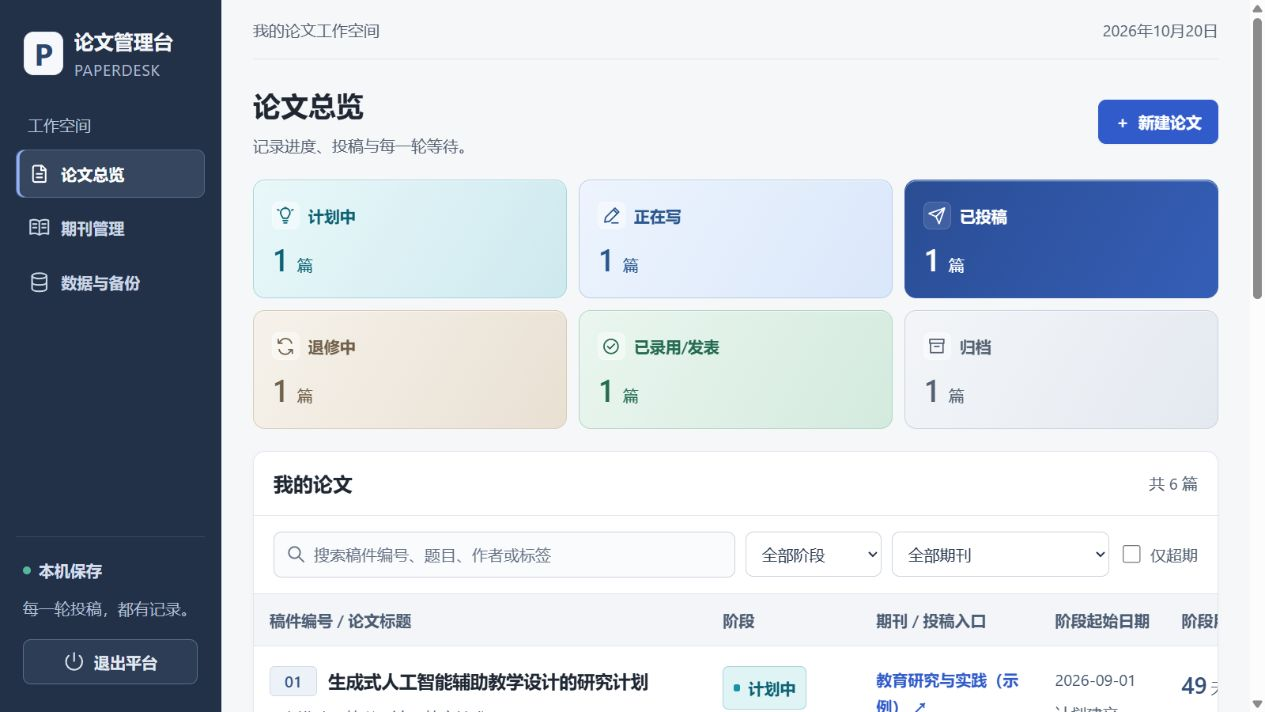
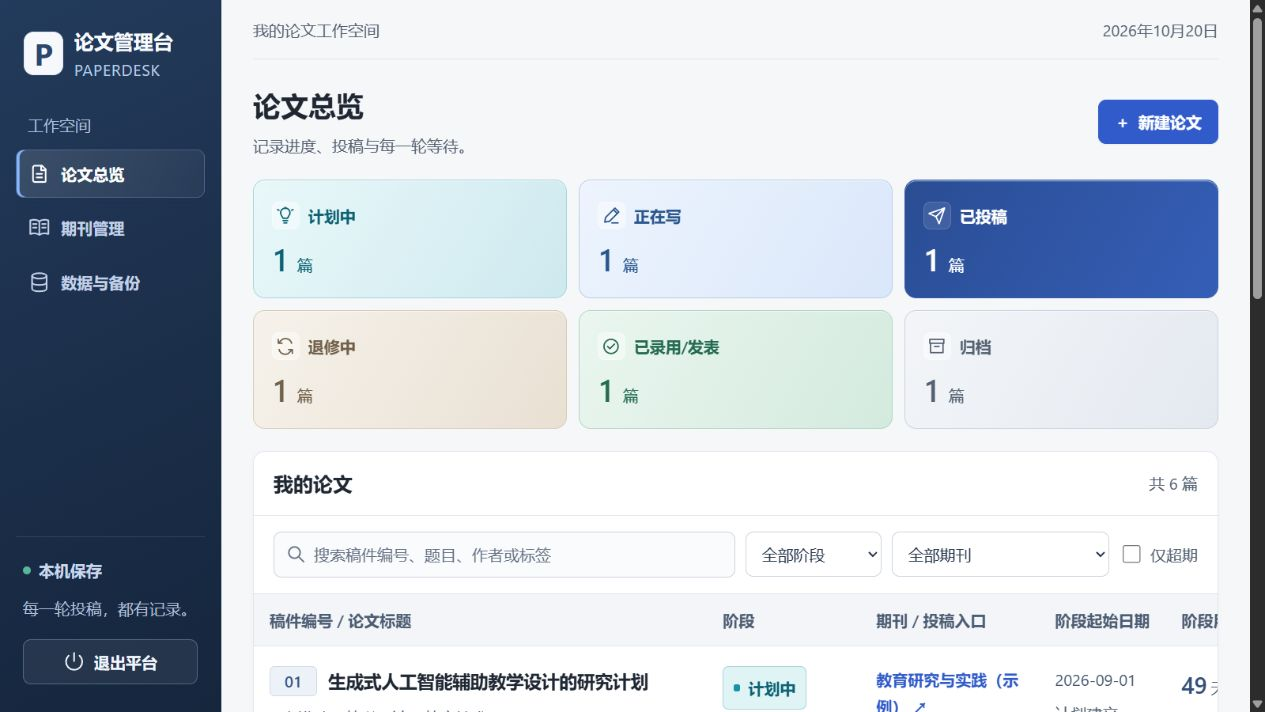
fix: restore navy sidebar palette

Changed region(s): [[0.9866, 0.0, 1.0, 1.0], [0.0617, 0.0927, 0.1233, 0.1236]]

diff --git a/web/style.css b/web/style.css
@@ -3,7 +3,7 @@
 *{box-sizing:border-box}html{font-size:16px}body{margin:0;background:var(--canvas);color:var(--ink);font-family:"Segoe UI","Microsoft YaHei UI","Microsoft YaHei","PingFang SC",sans-serif;font-size:16px;line-height:1.65;-webkit-font-smoothing:antialiased}button,input,select,textarea{font:inherit}button{cursor:pointer}button:disabled{cursor:wait;opacity:.55}a{color:var(--blue);text-decoration:none}a:hover{text-decoration:underline}button{line-height:1.45}[hidden]{display:none!important}p{overflow-wrap:anywhere}small{font-size:16px}h1,h2,h3{line-height:1.4;letter-spacing:0}button:focus-visible,a:focus-visible,input:focus-visible,select:focus-visible,textarea:focus-visible,summary:focus-visible{outline:3px solid #7196ea;outline-offset:3px}
 .icon,.nav-icon,.quit-icon{display:inline-block;width:22px;height:22px;flex:none;vertical-align:middle}.skip-link{position:fixed;top:-70px;left:20px;padding:10px 16px;z-index:60;background:#fff;border:2px solid var(--blue);border-radius:8px}.skip-link:focus{top:12px}
 /* Application frame */
-.sidebar{position:fixed;inset:0 auto 0 0;width:224px;background:#223148;border-right:1px solid #1c2a3e;padding:28px 16px;display:flex;flex-direction:column;z-index:3}.brand{display:flex;align-items:center;gap:11px;padding:0 8px;color:#f4f6fa;font-size:20px;font-weight:650;line-height:1.35}.brand:hover{text-decoration:none}.brand-icon{display:grid;place-items:center;width:40px;height:44px;border:1px solid #e1e7f4;border-radius:10px;background:#f6f8fc;color:#2c466c;font-family:inherit;font-size:30px;font-weight:700;flex:none}.brand small{display:block;font-size:16px;font-weight:400;letter-spacing:.6px;margin-top:4px;color:#aebbd0}.nav-label{margin:32px 12px 12px;color:#b7c5d8;font-size:16px}.nav-item{white-space:nowrap;width:100%;display:flex;align-items:center;gap:11px;min-height:48px;margin-bottom:6px;padding:12px;border:1px solid transparent;border-radius:8px;background:transparent;color:#cbd6e6;text-align:left;font-size:16px;font-weight:550;transition:background .15s}.nav-item:hover{background:#2b3c54;color:#fff}.nav-item.active{background:#35465e;border-color:#536783;color:#fff;box-shadow:inset 3px 0 #91b0fa}.sidebar-bottom{margin-top:auto;padding:20px 7px 0;border-top:1px solid #ffffff1c}.local-status{display:flex;align-items:center;gap:8px;font-size:16px;font-weight:550;color:#d5dfed}.status-dot,.integrity-dot{width:8px;height:8px;border-radius:50%;background:#56b79d;flex:none}.sidebar-bottom p{font-size:16px;color:#b1bfd2;margin:12px 0 18px}.quit-button{display:flex;justify-content:center;align-items:center;gap:9px;min-height:46px;width:100%;padding:10px 13px;color:#e2e8f2;border:1px solid #5a6d89;border-radius:8px;background:#2d3d55;font-size:16px;font-weight:550}.quit-button:hover{background:#35465e;border-color:#92a3bf}.workspace{margin-left:224px;padding:0 32px;min-width:0}.topbar{min-height:60px;border-bottom:1px solid var(--line);display:flex;align-items:center;justify-content:space-between;gap:14px;color:var(--muted);font-size:16px}.date-label{white-space:nowrap;font-variant-numeric:tabular-nums}.page-header{display:flex;justify-content:space-between;align-items:center;gap:20px;margin:26px 0 22px}.page-header h1{font-size:28px;font-weight:650;margin:0}.page-header p{font-size:16px;color:var(--muted);margin:8px 0 0}.eyebrow,.section-kicker{font-size:16px;color:var(--muted);font-weight:450;margin-bottom:6px}
+.sidebar{position:fixed;inset:0 auto 0 0;width:224px;background:linear-gradient(155deg,#233b5c 0%,#1b2e49 55%,#15263d 100%);border-right:1px solid #192c46;padding:28px 16px;display:flex;flex-direction:column;z-index:3}.brand{display:flex;align-items:center;gap:11px;padding:0 8px;color:#f8fbff;font-size:20px;font-weight:650;line-height:1.35}.brand:hover{text-decoration:none}.brand-icon{display:grid;place-items:center;width:40px;height:44px;border:1px solid #e1e7f4;border-radius:10px;background:#f6f8fc;color:#2c466c;font-family:inherit;font-size:30px;font-weight:700;flex:none}.brand small{display:block;font-size:16px;font-weight:400;letter-spacing:.6px;margin-top:4px;color:#b9cde9}.nav-label{margin:32px 12px 12px;color:#adbfda;font-size:16px}.nav-item{white-space:nowrap;width:100%;display:flex;align-items:center;gap:11px;min-height:48px;margin-bottom:6px;padding:12px;border:1px solid transparent;border-radius:8px;background:transparent;color:#c2d1e7;text-align:left;font-size:16px;font-weight:550;transition:background .15s}.nav-item:hover{background:#ffffff0d;color:#fff}.nav-item.active{background:linear-gradient(110deg,#ffffff1f,#ffffff0c);border-color:#a6c5fa3d;color:#fff;box-shadow:inset 3px 0 #86b5ff,0 4px 12px #10213a14}.sidebar-bottom{margin-top:auto;padding:20px 7px 0;border-top:1px solid #ffffff1c}.local-status{display:flex;align-items:center;gap:8px;font-size:16px;font-weight:550;color:#c8d8ed}.status-dot,.integrity-dot{width:8px;height:8px;border-radius:50%;background:#56b79d;flex:none}.sidebar-bottom p{font-size:16px;color:#aebfd7;margin:12px 0 18px}.quit-button{display:flex;justify-content:center;align-items:center;gap:9px;min-height:46px;width:100%;padding:10px 13px;color:#f0f6ff;border:1px solid #b5cdef52;border-radius:8px;background:#ffffff10;font-size:16px;font-weight:550}.quit-button:hover{background:#ffffff1c;border-color:#bfd8ff99}.workspace{margin-left:224px;padding:0 32px;min-width:0}.topbar{min-height:60px;border-bottom:1px solid var(--line);display:flex;align-items:center;justify-content:space-between;gap:14px;color:var(--muted);font-size:16px}.date-label{white-space:nowrap;font-variant-numeric:tabular-nums}.page-header{display:flex;justify-content:space-between;align-items:center;gap:20px;margin:26px 0 22px}.page-header h1{font-size:28px;font-weight:650;margin:0}.page-header p{font-size:16px;color:var(--muted);margin:8px 0 0}.eyebrow,.section-kicker{font-size:16px;color:var(--muted);font-weight:450;margin-bottom:6px}
 /* Actions */
 .button{min-height:44px;padding:10px 16px;border-radius:8px;display:inline-flex;justify-content:center;align-items:center;gap:8px;font-size:16px;font-weight:550;border:1px solid transparent;white-space:nowrap;text-decoration:none;transition:background .15s,border-color .15s}.button:hover{text-decoration:none}.primary{background:var(--blue);color:#fff;border-color:var(--blue);box-shadow:0 1px 2px #2449ad15}.primary:hover{background:var(--blue-hover);border-color:var(--blue-hover)}.secondary{background:#fff;color:#35465e;border-color:#d3dae4}.secondary:hover{background:#f1f4f9;border-color:#b6c4d8}.danger{color:#a53737;background:#fff;border-color:#d9b0b0}.danger:hover{background:#fff3f3}.button.small{font-size:16px;min-height:42px;padding:8px 12px}.link-button{border:0;background:transparent;padding:4px 0;color:var(--blue);font-size:16px;line-height:1.65;font-weight:550;cursor:pointer}.link-button:hover{text-decoration:underline}.subtle,.muted{color:var(--muted)}
 /* Stages: preserve the original six semantic meanings. */
@@ -31,6 +31,6 @@
 @media(min-width:1500px){.stats{grid-template-columns:repeat(6,minmax(0,1fr))}.stat{padding:16px 14px}.stat-name{gap:7px}.stat-marker{width:26px;height:26px}.workspace{padding-left:36px;padding-right:36px}}
 @media(min-width:1800px){.papers-table td:first-child{min-width:440px}.papers-table th,.papers-table td{padding-left:20px;padding-right:20px}}
 @media(max-width:1240px){.backup-grid{grid-template-columns:1fr}.toolbar .searchbox{flex-basis:100%}.toolbar select{flex:1;max-width:none}.journal-grid{grid-template-columns:1fr}}
-@media(max-width:900px){.sidebar{position:sticky;top:0;width:auto;padding:14px 20px 12px;display:grid;grid-template-columns:1fr auto;gap:12px 18px;border-right:0;border-bottom:1px solid #1c2a3e}.brand{font-size:18px;padding:0}.brand-icon{width:34px;height:38px;font-size:26px}.brand small{display:none}.nav-label{display:none}.sidebar nav{display:flex;grid-column:1/-1;gap:6px;order:3}.nav-item{width:auto;min-height:44px;margin:0;padding:9px 12px;gap:8px}.sidebar-bottom{margin:0;padding:0;border:0;display:flex;gap:14px;align-items:center}.sidebar-bottom p{display:none}.local-status{display:none}.quit-button{width:auto;min-height:44px;padding:8px 12px}.quit-icon{width:19px;height:19px}.workspace{margin-left:0;padding:0 20px}.topbar{min-height:52px}.page-header{margin:22px 0 20px}.stats{gap:12px}.stat{min-height:112px;padding:14px 16px}.stat strong{font-size:30px}.stat-name{gap:8px}.toast{left:50%}.diagnostic-times{width:100%}}
+@media(max-width:900px){.sidebar{position:sticky;top:0;width:auto;padding:14px 20px 12px;display:grid;grid-template-columns:1fr auto;gap:12px 18px;border-right:0;border-bottom:1px solid #192c46}.brand{font-size:18px;padding:0}.brand-icon{width:34px;height:38px;font-size:26px}.brand small{display:none}.nav-label{display:none}.sidebar nav{display:flex;grid-column:1/-1;gap:6px;order:3}.nav-item{width:auto;min-height:44px;margin:0;padding:9px 12px;gap:8px}.sidebar-bottom{margin:0;padding:0;border:0;display:flex;gap:14px;align-items:center}.sidebar-bottom p{display:none}.local-status{display:none}.quit-button{width:auto;min-height:44px;padding:8px 12px}.quit-icon{width:19px;height:19px}.workspace{margin-left:0;padding:0 20px}.topbar{min-height:52px}.page-header{margin:22px 0 20px}.stats{gap:12px}.stat{min-height:112px;padding:14px 16px}.stat strong{font-size:30px}.stat-name{gap:8px}.toast{left:50%}.diagnostic-times{width:100%}}
 @media(max-width:560px){.close-button,.icon-button{width:44px;height:44px}.button.small{min-height:44px}.link-button{min-height:44px;display:inline-flex;align-items:center}.sidebar{padding:12px 14px 10px;gap:10px}.brand{font-size:17px;gap:8px}.brand-icon{width:30px;height:34px;font-size:24px}.quit-button{padding:8px 10px}.quit-icon{display:none}.sidebar nav{gap:4px;justify-content:space-between}.nav-item{padding:9px 8px;font-size:16px;gap:6px;flex:1;justify-content:center}.nav-icon{display:none}.workspace{padding:0 14px}.topbar{min-height:50px;gap:8px;font-size:16px}.topbar>span:first-child{display:none}.topbar .date-label{margin-left:auto}.page-header{gap:12px;margin-top:18px}.page-header h1{font-size:26px}.page-header p{max-width:210px}.page-header .button{padding:10px 12px}.stats{grid-template-columns:repeat(2,minmax(0,1fr));gap:10px;margin-bottom:18px}.stat{min-height:110px;padding:13px 14px}.stat-name{gap:7px}.stat-marker{width:24px;height:24px}.stat-icon{width:17px;height:17px}.stat strong{font-size:28px;margin-top:12px}.stat-name{flex-wrap:wrap}.toolbar{padding:14px;gap:10px}.toolbar select{min-width:110px}.searchbox{min-width:0}.panel-title{padding:16px}.active-filters{padding:10px 14px}.table-footer{flex-direction:column;align-items:flex-start;gap:8px;padding:14px}.drawer-header,.drawer-body{padding-left:20px;padding-right:20px}.drawer-header h2{font-size:23px}.drawer-actions{padding:14px 20px}.drawer-actions .primary{margin-left:auto}.save-note{display:none}.form-grid{grid-template-columns:1fr;gap:16px}.form-section{margin-bottom:22px}.detail-meta{grid-template-columns:100px minmax(0,1fr);gap:10px 12px}.overdue-strip{display:grid;grid-template-columns:18px minmax(0,1fr);align-items:start;gap:8px 10px}.overdue-strip .link-button{grid-column:2;justify-self:start;margin-left:0}.candidate-row{gap:6px;flex-wrap:wrap}.candidate-row select{flex-basis:calc(100% - 30px)}.candidate-row .icon-button{width:44px;height:44px}.candidate-row .icon-button:nth-of-type(1){margin-left:26px}.backup-section,.journal-card{padding:20px}.backup-row{align-items:flex-start;gap:10px}.backup-row .button{padding:8px 10px}.diagnostic-panel{padding:18px}.file-association-actions{padding-left:0;gap:12px}.modal{padding:24px}.modal-actions .button{min-width:100px}.toast{bottom:18px}}
 @media(prefers-reduced-motion:reduce){*,*::before,*::after{transition:none!important;scroll-behavior:auto!important}}

diff --git a/web/index.html b/web/index.html
@@ -25,7 +25,7 @@
   <main class="workspace" id="main-workspace" tabindex="-1">
     <div class="topbar"><span>我的论文工作空间</span><span id="today" class="date-label"></span></div>
     <div id="content" aria-live="polite"><div class="loading">正在读取本机记录…</div></div>
-    <footer>PaperDesk v1.4.1 · 记录保存在本机，稿件保留在原文件夹</footer>
+    <footer>PaperDesk v1.4.2 · 记录保存在本机，稿件保留在原文件夹</footer>
   </main>
   <div id="drawer-layer" class="drawer-layer" hidden>
     <div class="scrim" data-action="close-drawer"></div>

diff --git a/web/app.js b/web/app.js
@@ -1,5 +1,5 @@
 'use strict';
-const BUILD_VERSION='1.4.1';
+const BUILD_VERSION='1.4.2';
 
 const stages = {planned:'计划中',writing:'正在写',submitted:'已投稿',revision:'退修中',accepted:'已录用/发表',archived:'归档'};
 const results = {accepted:'录用',rejected:'退稿',withdrawn:'撤稿',other:'其他结束'};

diff --git a/DESIGN.md b/DESIGN.md
@@ -1,6 +1,6 @@
 # PaperDesk 界面设计规范
 
-适用版本：1.4.1。参考来源：VoltAgent/awesome-design-md 的 Linear DESIGN.md。
+适用版本：1.4.2。参考来源：VoltAgent/awesome-design-md 的 Linear DESIGN.md。
 原文见 [docs/references/linear/DESIGN.md](docs/references/linear/DESIGN.md)，保留 MIT 许可与固定来源提交。
 
 ## 选择理由与适配边界
@@ -11,14 +11,14 @@
 
 ## 视觉方向
 
-蓝灰色导航与钴蓝操作色，纸白工作面，冷灰分隔。侧边栏使用用户确认的中间色，平衡原海军蓝与深石墨灰。通过间距、线条与轻微表面差异建立层次；取消大面积装饰光斑与厚阴影。状态色用于阶段卡片、标签和图标，不用于无关段落。
+海军蓝导航与钴蓝操作色，纸白工作面，冷灰分隔。侧边栏恢复 v1.3.0 的海军蓝渐变及导航配色，保留当前布局。通过间距、线条与轻微表面差异建立层次；取消大面积装饰光斑与厚阴影。状态色用于阶段卡片、标签和图标，不用于无关段落。
 
 | 用途 | 规范 |
 | --- | --- |
 | 工作区 | #f6f7f9；面板 #ffffff；次级表面 #f1f3f6 |
 | 主文字 / 辅助文字 | #1f2733 / #536071；占位文字 #647184 |
 | 主操作 / 悬停 | #315bca / #2549ad |
-| 导航 | #223148，选中背景 #35465e，边线 #536783，浅色文字 |
+| 导航 | 海军蓝渐变 #233b5c → #1b2e49 → #15263d；选中项使用半透明白色渐变与浅蓝边线 |
 | 线条 / 强线条 | #e1e5eb / #b9c5d5 |
 | 圆角 | 输入与按钮 8px，面板 12px，标签 6px |
 | 间距 | 4、8、12、16、24、32px；表单组间距 24px |

diff --git a/功能验证.md b/功能验证.md
@@ -1,5 +1,11 @@
 # 功能验证结果
 
+## v1.4.2 本次更新 · 2026 年 10 月 22 日
+
+- 侧栏及导航、退出按钮恢复 v1.3.0 海军蓝配色，正式页面已目视核验；当前布局与桌面启动入口保留。
+- 61 项 Python 测试、28 项页面逻辑检查及脚本语法检查通过。
+- 更新前后全部论文、期刊、投稿、文件关联及设置逐字段一致，升级前生成 1 份自动备份。公开截图继续只使用示例数据。
+
 ## v1.4.1 本次更新 · 2026 年 10 月 22 日
 
 - 61 项 Python 测试、28 项页面逻辑检查及脚本语法检查通过。升级测试使用相对版本标记，避免升级到测试中写死的版本号时失效。

diff --git a/CHANGELOG.md b/CHANGELOG.md
@@ -1,5 +1,9 @@
 # 更新记录
 
+## v1.4.2 · 2026-10-22
+
+- 侧边栏恢复 v1.3.0 的海军蓝渐变，同步恢复导航选中、悬停、文字和退出按钮的配色；沿用当前布局、桌面快捷方式和业务功能。
+
 ## v1.4.1 · 2026-10-22
 
 - 按已确认的预览，将侧边栏改为蓝灰中间色 #223148，同步调整导航选中、悬停和退出按钮配色，保持页面布局和业务功能。
